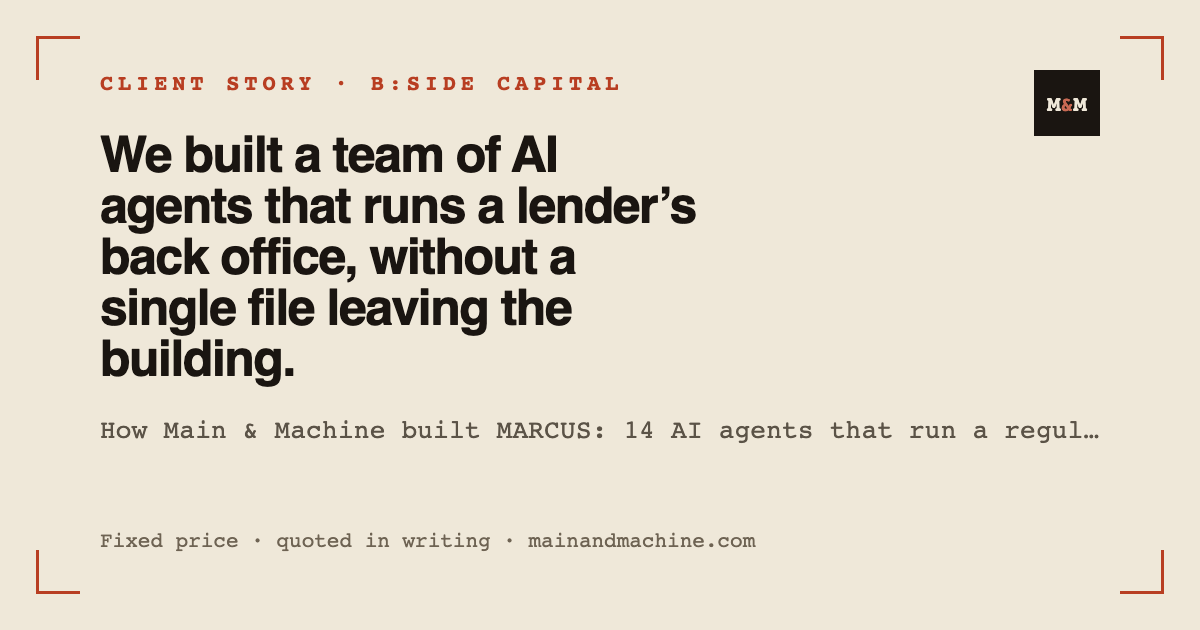
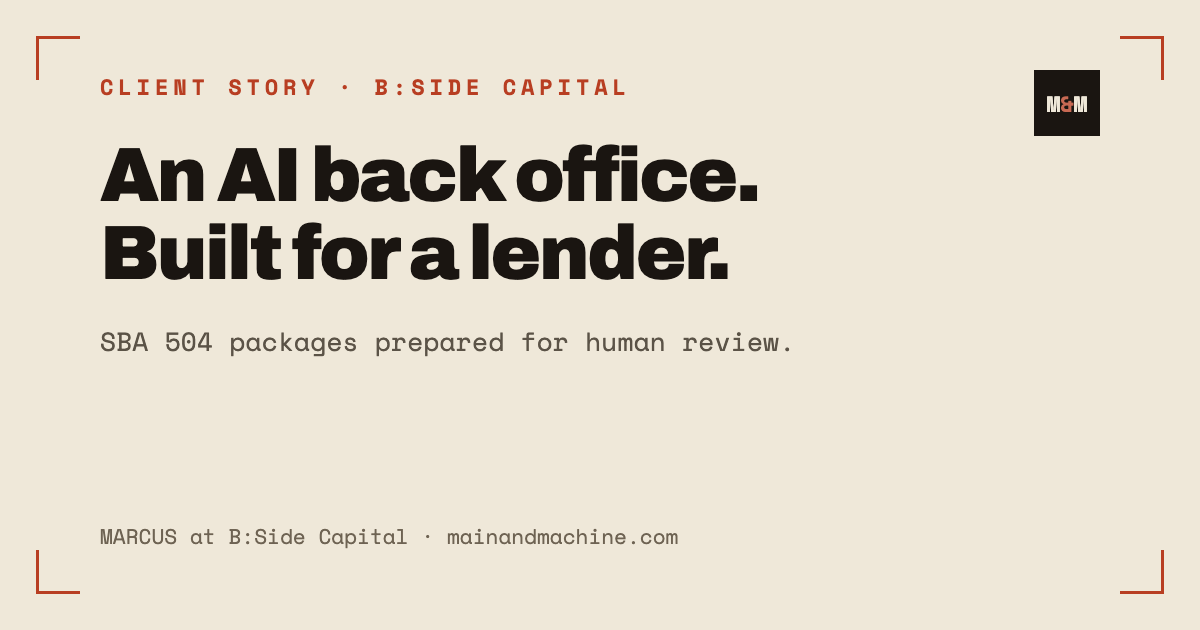
Refresh MARCUS sharing cards around SBA 504 package assembly

diff --git a/work/marcus/results/index.html b/work/marcus/results/index.html
@@ -13,17 +13,17 @@
 <meta property="og:title" content="MARCUS: Loan Package Assembly at B:Side | Main &amp; Machine" />
 <meta property="og:description" content="MARCUS at B:Side Capital: SBA 504 package assembly, estimated preparation capacity, staff adoption, and reporting methods for June–August 2026." />
 <meta property="og:url" content="https://www.mainandmachine.com/work/marcus/results/" />
-<meta property="og:image" content="https://www.mainandmachine.com/images/og/work-marcus-results.png" />
+<meta property="og:image" content="https://www.mainandmachine.com/images/og/work-marcus-results.png?v=20260910" />
 <meta property="og:image:type" content="image/png" />
 <meta property="og:image:width" content="1200" />
 <meta property="og:image:height" content="630" />
-<meta property="og:image:alt" content="Main &amp; Machine. MARCUS reported results." />
+<meta property="og:image:alt" content="MARCUS at B:Side Capital. SBA 504 packages prepared for review. Reported period: June–August 2026." />
 
 <!-- Twitter -->
 <meta name="twitter:card" content="summary_large_image" />
 <meta name="twitter:title" content="MARCUS: Loan Package Assembly at B:Side | Main &amp; Machine" />
 <meta name="twitter:description" content="MARCUS at B:Side Capital: SBA 504 package assembly, estimated preparation capacity, staff adoption, and reporting methods for June–August 2026." />
-<meta name="twitter:image" content="https://www.mainandmachine.com/images/og/work-marcus-results.png" />
+<meta name="twitter:image" content="https://www.mainandmachine.com/images/og/work-marcus-results.png?v=20260910" />
 
 <link rel="preload" as="font" type="font/woff2" href="/fonts/archivo-latin-var.woff2" crossorigin />
 <link rel="preload" as="font" type="font/woff2" href="/fonts/spacemono-latin-400.woff2" crossorigin />
@@ -127,7 +127,7 @@
       "headline": "MARCUS at B:Side Capital: SBA 504 package assembly",
       "description": "First-party operational results from MARCUS at B:Side Capital, where Main & Machine founder Christopher Myers is CEO. Borrower documents are processed locally; selected tasks can use external models on filtered text. Read the reported outcomes, measurement limits, and methodology.",
       "url": "https://www.mainandmachine.com/work/marcus/results/",
-      "image": "https://www.mainandmachine.com/images/og/work-marcus-results.png",
+      "image": "https://www.mainandmachine.com/images/og/work-marcus-results.png?v=20260910",
       "datePublished": "2026-07-31",
       "dateModified": "2026-09-10",
       "author": {

diff --git a/work/marcus/index.html b/work/marcus/index.html
@@ -14,17 +14,17 @@
 <meta property="og:description" content="How Main &amp; Machine built MARCUS for B:Side Capital: 14 AI agents across 7 departments, local document processing, and human approval of consequential work." />
 <meta property="og:url" content="https://www.mainandmachine.com/work/marcus/" />
 <!-- TODO: dedicated 1200×630 share card at /images/og/marcus.png — reusing the work card for now. -->
-<meta property="og:image" content="https://www.mainandmachine.com/images/og/work-marcus.png" />
+<meta property="og:image" content="https://www.mainandmachine.com/images/og/work-marcus.png?v=20260910" />
 <meta property="og:image:type" content="image/png" />
 <meta property="og:image:width" content="1200" />
 <meta property="og:image:height" content="630" />
-<meta property="og:image:alt" content="Main &amp; Machine: How we built MARCUS — 14 AI agents running a lender's back office on-prem." />
+<meta property="og:image:alt" content="MARCUS at B:Side Capital. An AI back office built for a lender, with SBA 504 packages prepared for human review." />
 
 <!-- Twitter -->
 <meta name="twitter:card" content="summary_large_image" />
 <meta name="twitter:title" content="MARCUS: A Private AI Back Office for B:Side Capital" />
 <meta name="twitter:description" content="How Main &amp; Machine built MARCUS for B:Side Capital: 14 AI agents across 7 departments, local document processing, and human approval of consequential work." />
-<meta name="twitter:image" content="https://www.mainandmachine.com/images/og/work-marcus.png" />
+<meta name="twitter:image" content="https://www.mainandmachine.com/images/og/work-marcus.png?v=20260910" />
 
 <link rel="preload" as="font" type="font/woff2" href="/fonts/archivo-latin-var.woff2" crossorigin />
 <link rel="preload" as="font" type="font/woff2" href="/fonts/spacemono-latin-400.woff2" crossorigin />
@@ -297,7 +297,7 @@ dl.mk-stats{ margin-bottom: 0; }
       "publisher": {
         "@id": "https://www.mainandmachine.com/#org"
       },
-      "image": "https://www.mainandmachine.com/images/og/work-marcus.png",
+      "image": "https://www.mainandmachine.com/images/og/work-marcus.png?v=20260910",
       "mainEntityOfPage": {
         "@type": "WebPage",
         "@id": "https://www.mainandmachine.com/work/marcus/"
